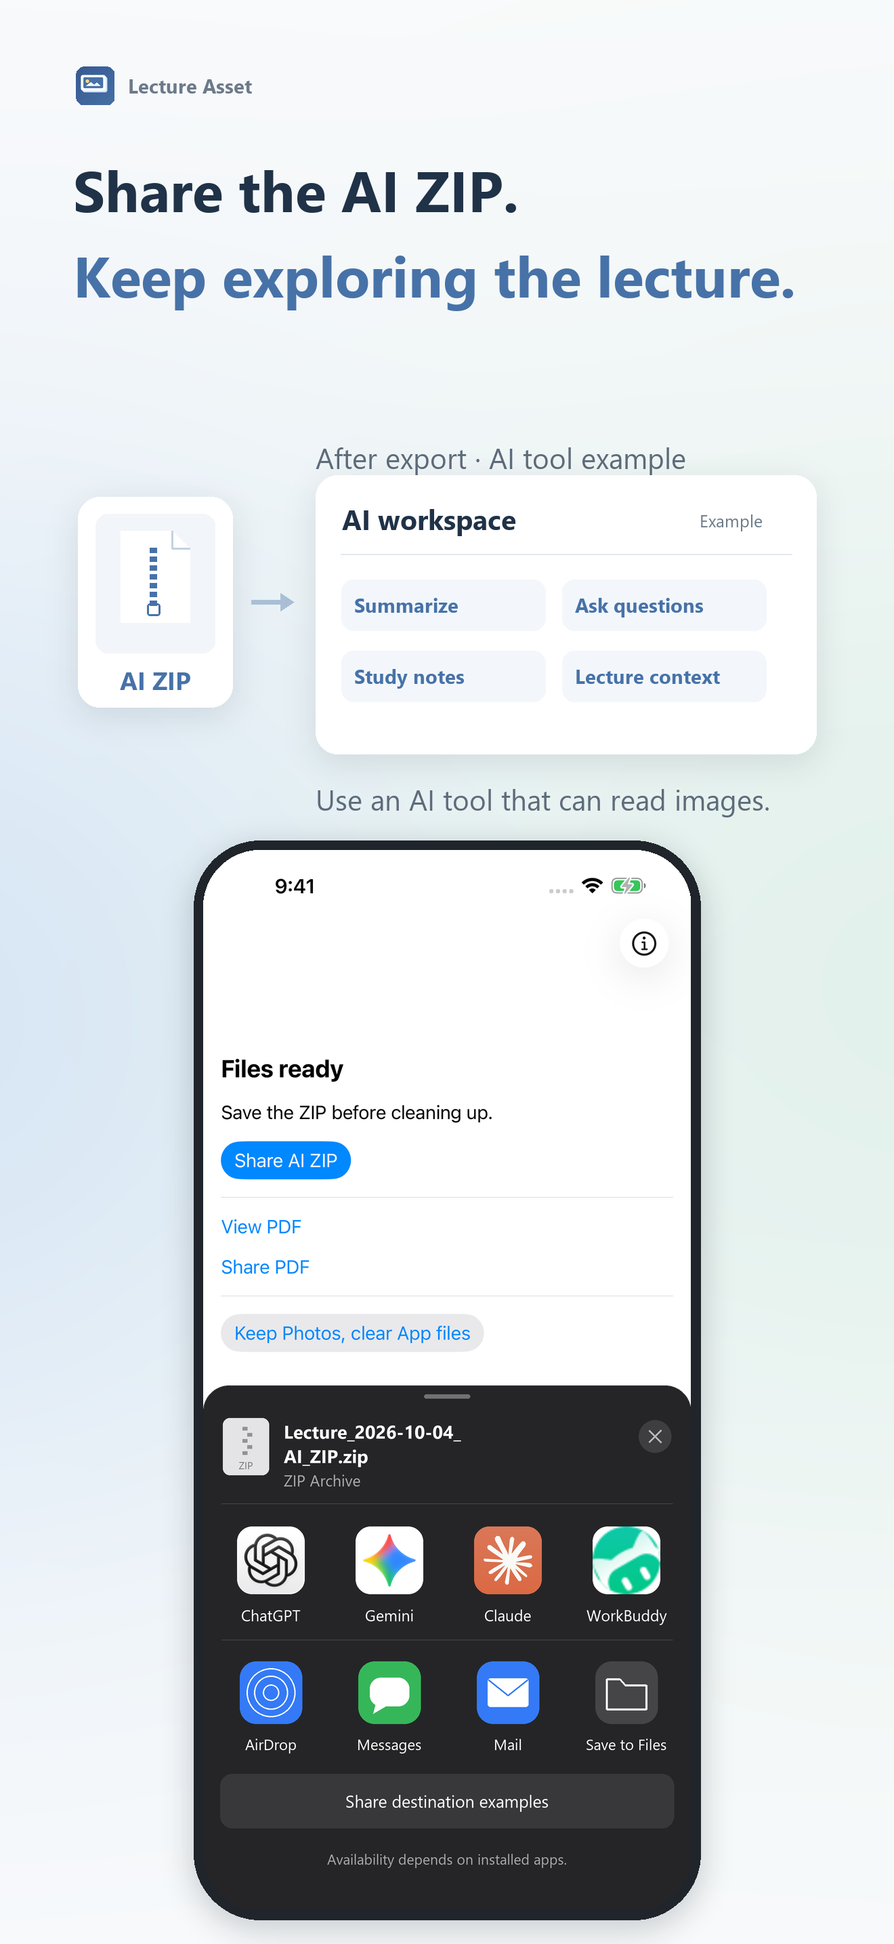
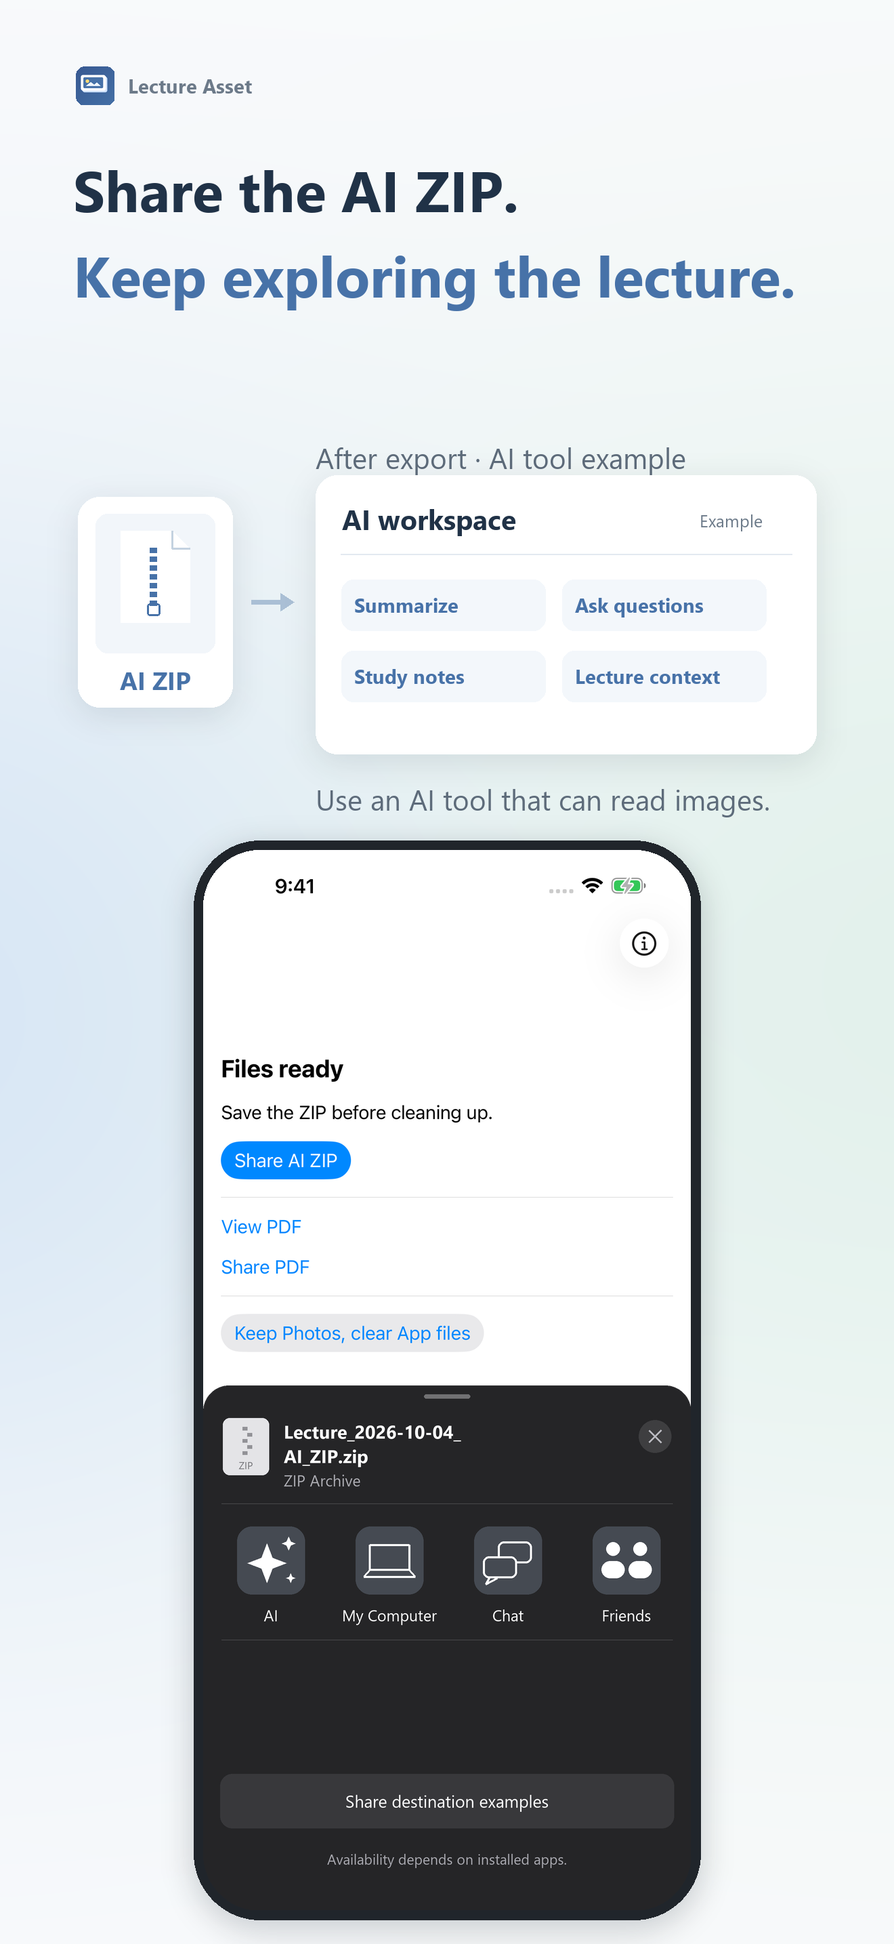
Replace share brands with generic destinations and fix plural deletion copy

diff --git a/reports/S05/store-screenshots-01/scripts/phone_overlays.py b/reports/S05/store-screenshots-01/scripts/phone_overlays.py
@@ -1,9 +1,9 @@
-"""Owner-requested illustrative system layers, not captured iOS/provider UI."""
+"""Owner-requested illustrative system layers; all destinations are generic."""
 from pathlib import Path
 from PIL import Image, ImageDraw, ImageFont
-import math
-
-NAMES = ['ChatGPT', 'Gemini', 'Claude', 'WorkBuddy']
+NAMES = ['AI', 'My Computer', 'Chat', 'Friends']
+DELETE_TITLE = 'Allow “Lecture Asset” to delete 12 photos?'
+DELETE_BODY = 'These photos will be deleted from iCloud Photos on all your devices. They’ll remain in Recently Deleted for 30 days.'
 
 def apply_overlay(base, kind, root, font_dir='C:/Windows/Fonts'):
     scale = 2
@@ -33,29 +33,37 @@ def apply_overlay(base, kind, root, font_dir='C:/Windows/Fonts'):
         line([(w-44,top+66),(w-62,top+84)],'#B8B8BE',3)
         line([(27,top+174),(w-27,top+174)])
         for i,name in enumerate(NAMES):
-            x=30+i*175
-            icon_path=root/'illustrative-assets'/f'{name.lower()}.png'
-            icon=Image.open(icon_path).convert('RGBA').resize((100*scale,100*scale),Image.Resampling.LANCZOS)
-            mask=Image.new('L',icon.size)
-            ImageDraw.Draw(mask).rounded_rectangle((0,0,199,199),44,fill=255)
-            icon.putalpha(mask)
-            layer.alpha_composite(icon,((x+20)*scale,(top+208)*scale))
+            x=30+i*175; cx=x+70; cy=top+258
+            box((cx-50,cy-50,cx+50,cy+50),22,'#454A52')
+            if i==0:
+                def sparkle(sx,sy,r):
+                    points=[(sx,sy-r),(sx+r*.28,sy-r*.28),(sx+r,sy),
+                            (sx+r*.28,sy+r*.28),(sx,sy+r),
+                            (sx-r*.28,sy+r*.28),(sx-r,sy),(sx-r*.28,sy-r*.28)]
+                    d.polygon([(round(a*scale),round(b*scale)) for a,b in points],fill='white')
+                sparkle(cx-6,cy+4,29)
+                sparkle(cx+26,cy-25,10)
+                sparkle(cx+29,cy+26,7)
+            elif i==1:
+                line([(cx-29,cy+14),(cx-29,cy-23),(cx+29,cy-23),
+                      (cx+29,cy+14),(cx-29,cy+14)],'white',3)
+                line([(cx-29,cy+14),(cx-38,cy+24),(cx+38,cy+24),
+                      (cx+29,cy+14)],'white',3)
+            elif i==2:
+                # Two offset outlined bubbles, no platform-specific mark.
+                for ox,oy in [(10,-10),(-12,12)]:
+                    bounds=(cx+ox-25,cy+oy-18,cx+ox+25,cy+oy+14)
+                    d.rounded_rectangle(tuple(round(v*scale) for v in bounds),9*scale,
+                                        fill='#454A52',outline='white',width=3*scale)
+                    line([(cx+ox-16,cy+oy+14),(cx+ox-21,cy+oy+23),
+                          (cx+ox-4,cy+oy+14)],'white',3)
+            else:
+                for ox in [-20,20]:
+                    d.ellipse(tuple(round(v*scale) for v in
+                              (cx+ox-10,cy-27,cx+ox+10,cy-7)),fill='white')
+                    box((cx+ox-17,cy+1,cx+ox+17,cy+26),13,'white')
             label(name,x+70,top+323,23,centered=True)
         line([(27,top+375),(w-27,top+375)])
-        for i,name in enumerate(['AirDrop','Messages','Mail','Save to Files']):
-            x=30+i*175; cx=x+70; cy=top+453
-            box((cx-46,cy-46,cx+46,cy+46),24,['#347AF6','#35B759','#347AF6','#454548'][i])
-            if i==0:
-                for r in [12,25,36]: d.ellipse(tuple(int(v*scale) for v in (cx-r,cy-r,cx+r,cy+r)),outline='white',width=2*scale)
-            elif i==1:
-                box((cx-29,cy-22,cx+29,cy+20),16,'white')
-                d.polygon([(int(vx*scale),int(vy*scale)) for vx,vy in [(cx-19,cy+12),(cx-24,cy+31),(cx,cy+17)]],fill='white')
-            elif i==2:
-                box((cx-30,cy-21,cx+30,cy+21),4,'white')
-                line([(cx-29,cy-19),(cx,cy+4),(cx+29,cy-19)],'#347AF6',2)
-            else:
-                line([(cx-29,cy-20),(cx-10,cy-20),(cx-2,cy-11),(cx+29,cy-11),(cx+29,cy+25),(cx-29,cy+25),(cx-29,cy-20)],'white',3)
-            label(name,cx,top+514,22,centered=True)
         box((25,top+573,w-25,top+653),18,'#38383B')
         label('Share destination examples',w/2,top+596,25,centered=True)
         label('Availability depends on installed apps.',w/2,top+684,21,'#A6A6AD',centered=True)
@@ -63,15 +71,20 @@ def apply_overlay(base, kind, root, font_dir='C:/Windows/Fonts'):
         box((0,0,w,h),0,(0,0,0,95))
         left,right,top,bottom=64,w-64,460,1125
         box((left,top,right,bottom),30,'#29292C')
-        label('Allow "Lecture Asset" to',w/2,top+32,29,bold=True,centered=True)
-        label('delete this photo?',w/2,top+72,29,bold=True,centered=True)
-        for j,t in enumerate(['This photo will be deleted from iCloud','Photos on all your devices. It will be in','Recently Deleted for 30 days.']):
+        title_lines=['Allow “Lecture Asset” to','delete 12 photos?']
+        body_lines=['These photos will be deleted from iCloud',
+                    'Photos on all your devices. They’ll remain',
+                    'in Recently Deleted for 30 days.']
+        assert ' '.join(title_lines)==DELETE_TITLE
+        assert ' '.join(body_lines)==DELETE_BODY
+        label(title_lines[0],w/2,top+32,29,bold=True,centered=True)
+        label(title_lines[1],w/2,top+72,29,bold=True,centered=True)
+        for j,t in enumerate(body_lines):
             label(t,w/2,top+129+j*33,24,'#E3E3E8',centered=True)
         preview=Image.open(root/'fixtures/lecture-13.jpg').convert('RGB')
         preview.thumbnail((462*scale,260*scale),Image.Resampling.LANCZOS)
         px=(w*scale-preview.width)//2; py=(top+259)*scale
         layer.paste(preview,(px,py))
-        label('System confirmation example',w/2,top+548,20,'#B3B3BA',centered=True)
         line([(left,top+597),(right,top+597)])
         line([(w/2,top+597),(w/2,bottom)])
         label("Don't Allow",(left+w/2)/2,top+617,27,'#71AFFF',centered=True)

diff --git a/reports/S05/store-screenshots-01/scripts/validate_store.py b/reports/S05/store-screenshots-01/scripts/validate_store.py
@@ -6,11 +6,13 @@ import json
 import numpy as np
 import subprocess
 import io
-from phone_overlays import apply_overlay, NAMES
+from phone_overlays import apply_overlay, NAMES, DELETE_TITLE, DELETE_BODY
 
 ROOT = Path(__file__).resolve().parents[1]
 BASE = '4afd804ff2bdedec0a181181d768932a01b52b1b'
-PREVIOUS = 'b260bedc40c0ddc715f53ee46b67a2112313747f'
+PREVIOUS = 'adc6c2716b7e53451c6c2f390a672f7d7ab7e622'
+assert NAMES==['AI','My Computer','Chat','Friends']
+assert not list((ROOT/'illustrative-assets').glob('*')), 'unused downloaded artwork remains'
 provenance = json.loads((ROOT/'captures/PROVENANCE.json').read_text(encoding='utf-8'))
 CAPTURE_SHA = provenance['source_sha']
 records = json.loads((ROOT/'RENDER_MANIFEST.json').read_text(encoding='utf-8'))
@@ -40,7 +42,10 @@ for record in records:
             if overlay['kind']=='share':
                 assert overlay['first_row']==NAMES
                 assert overlay['filename']=='Lecture_2026-10-04_AI_ZIP.zip'
-            else: assert overlay['preview']=='fixtures/lecture-13.jpg'
+            else:
+                assert overlay['preview']=='fixtures/lecture-13.jpg'
+                assert overlay['delete_title']==DELETE_TITLE=='Allow “Lecture Asset” to delete 12 photos?'
+                assert overlay['delete_body']==DELETE_BODY=='These photos will be deleted from iCloud Photos on all your devices. They’ll remain in Recently Deleted for 30 days.'
         # Intersect the original screen geometry with the canvas, including
         # any screen edge at the canvas boundary; current phones are fully visible.
         left,top,right,bottom=max(0,x),max(0,y),min(im.width,x+w),min(im.height,y+h)
@@ -62,12 +67,24 @@ for record in records:
         actual_changes=int(np.count_nonzero(base_delta & visible_mask))
         assert np.count_nonzero(base_delta & visible_mask & ~coverage)==0
         old_bytes=subprocess.check_output(['git','show',PREVIOUS+':'+path.relative_to(Path.cwd()).as_posix()])
-        if records.index(record) in (0,1,3):
+        if records.index(record) in (0,1,2,3):
             assert path.read_bytes()==old_bytes, 'protected frame changed'
         if records.index(record) in (2,4,5):
             old=np.asarray(Image.open(io.BytesIO(old_bytes)).convert('RGB'))
             outside=np.any(np.asarray(im)!=old,axis=2); outside[y:y+h,x:x+w]=False
             assert not np.any(outside), 'phone exterior changed'
+            if records.index(record) in (4,5):
+                # Bound the allowed changes to destination rows or dialog text.
+                local_delta=np.any(np.asarray(im)[y:y+h,x:x+w]!=old[y:y+h,x:x+w],axis=2)
+                allowed=np.zeros((h,w),dtype=bool)
+                if records.index(record)==4:
+                    allowed[990:1340,:]=True
+                else:
+                    allowed[480:690,70:650]=True
+                    allowed[995:1045,100:620]=True
+                    # The lecture preview and destructive/cancel actions stay exact.
+                    assert np.array_equal(np.asarray(im)[y+719:y+979,x+129:x+591],old[y+719:y+979,x+129:x+591])
+                assert not np.any(local_delta & ~allowed), 'change outside focused overlay areas'
         result.append({'file':record['file'],'size_mode_profile_hash':'PASS',
                        'central_phone_pixels_changed':changed,
                        'composite_expected_pixels_changed':full_changed,
@@ -103,7 +120,12 @@ assert all(r['subtitle_style']=={'size':42,'color':'#5D6B7A','origin':[113,518]}
 assert records[4]['headline_lines']==['Share the AI ZIP.','Keep exploring the lecture.']
 summary={'base_sha':BASE,'production_app_tree':app_tree,'production_changes':production_diff,
          'previous_composition_head':PREVIOUS,'exact_capture_sha':CAPTURE_SHA,
-         'new_capture_this_round':False, 'common_ready_base':'PASS', 'protected_frames_1_2_4_byte_identical':'PASS', 'phone_exteriors_3_5_6_pixel_identical':'PASS', 'runtime_workflow_tests_unchanged_this_round':'PASS',
+         'new_capture_this_round':False, 'common_ready_base':'PASS',
+         'protected_frames_1_2_3_4_byte_identical':'PASS',
+         'phone_exteriors_3_5_6_pixel_identical':'PASS',
+         'overlay_change_bounds':'PASS','lecture_preview_unchanged':'PASS',
+         'generic_destinations':NAMES,'downloaded_artwork_removed':'PASS',
+         'plural_delete_contract':'PASS','runtime_workflow_tests_unchanged_this_round':'PASS',
          'uniform_headline_style':'PASS','uniform_subtitle_style':'PASS',
          'uniform_full_phone_geometry':'PASS',
          'six_image_checks':result,'phone_repaint_check':'PASS',

diff --git a/reports/S05/store-screenshots-01/scripts/render_store.py b/reports/S05/store-screenshots-01/scripts/render_store.py
@@ -9,7 +9,7 @@ import argparse
 import hashlib
 import json
 import numpy as np
-from phone_overlays import apply_overlay, NAMES
+from phone_overlays import apply_overlay, NAMES, DELETE_TITLE, DELETE_BODY
 
 ROOT = Path(__file__).resolve().parents[1]
 P = argparse.ArgumentParser()
@@ -225,7 +225,9 @@ def render(index, item):
             'base_capture':info['raw'],'first_row':NAMES if index==5 else None,
             'filename':'Lecture_2026-10-04_AI_ZIP.zip' if index==5 else None,
             'preview':'fixtures/lecture-13.jpg' if index==6 else None,
-            'note':'Illustration only; provider share-extension availability not verified.'}
+            'delete_title':DELETE_TITLE if index==6 else None,
+            'delete_body':DELETE_BODY if index==6 else None,
+            'note':'Illustration only; generic destination categories, not installed apps.'}
     output=ROOT/'store'/'en'/(name+'.png')
     output.parent.mkdir(parents=True,exist_ok=True)
     im.convert('RGB').save(output,icc_profile=ICC,optimize=True)

diff --git a/reports/S05/store-screenshots-01/DELIVERY.md b/reports/S05/store-screenshots-01/DELIVERY.md
@@ -1,54 +1,45 @@
-# English Store images — common Files ready base + illustrative layers
+# English Store images — focused generic destinations / plural confirmation
 
-**READY_FOR_REAUDIT** — 2026-10-05. PR #14; do not merge.
+**READY_FOR_FINAL_AUDIT** — 2026-10-05. Same PR #14; no merge.
+Reviewed baseline: `adc6c2716b7e53451c6c2f390a672f7d7ab7e622`.
 
-## This revision
+## Changes
 
-Starting PR head: `79c344446c603019c4687500f475196c42d4f6ad` (full SHA recorded in TEST_RESULTS).
-Comparison baseline: `b260bedc40c0ddc715f53ee46b67a2112313747f`.
-Owner confirmed use of current **Share AI ZIP** / light real App capture.
-No button colors, localization, runtime, workflow or account configuration changed.
+Frame 5 retains its real Files ready / Share AI ZIP base and complete exterior.
+Only the illustrative destination rows change: four equal neutral rounded-square
+vector tiles, AI / My Computer / Chat / Friends, in that order. The second row
+is removed. Original sparkle / laptop / overlapping bubbles / two avatars are
+drawn by renderer; no downloaded artwork, real service names or logo assets remain.
+The ZIP header, file name, positions, sheet shell and existing low-weight example /
+installed-apps disclosure are retained. Categories are not installed applications.
 
-- Frames 3/5/6 use exactly `captures/store-en-ready.png` from Release capture source
-  `b4bff6d3ddd31a49058b1b58ea47c566cca3b1f9`. No new base capture.
-- Frame 3: plain ready screen, replacing building/progress.
-- Frame 5: dark **illustrative** iOS-style share sheet, fixed
-  `Lecture_2026-10-04_AI_ZIP.zip` / ZIP Archive. First row ChatGPT, Gemini,
-  Claude, WorkBuddy; second row AirDrop, Messages, Mail, Save to Files.
-  Real Files ready title and all existing ready actions remain visible above it.
-- Frame 6: dark **illustrative** system deletion confirmation, lecture-13 fixture
-  preview, Don't Allow / Delete. The real base is visible through a dimming layer.
-- Phone geometry, six headlines, background and all exterior artwork unchanged.
-  Frames 1/2/4 are byte-identical to baseline. Phone exteriors 3/5/6 pixel-identical.
+Frame 6 retains base, geometry, exterior cleanup diagram, lecture-13 preview and
+Don't Allow / Delete. Title: **Allow “Lecture Asset” to delete 12 photos?**
+Body: **These photos will be deleted from iCloud Photos on all your devices.
+They’ll remain in Recently Deleted for 30 days.** The in-dialog example caption
+is deleted; the separate report still identifies the dialog as illustrative.
 
-## Evidence
+No product code, button colors/implementation, localization, runtime, capture
+workflow, ASC, TestFlight, metadata or release action changed. Frames 1/2/3/4
+are protected byte-identical to reviewed head. No external artwork dependencies.
 
-Run locally (existing Python/Pillow/numpy; no install):
+## Focused evidence
 
 ```powershell
 F:/anaconda3/python.exe reports/S05/store-screenshots-01/scripts/render_store.py
 F:/anaconda3/python.exe reports/S05/store-screenshots-01/scripts/validate_store.py
 ```
 
-Focused validator PASS: PNG sizes/profile/hashes, common real base, deterministic
-system-layer composites, unchanged uncovered base pixels, protected frames/exteriors,
-uniform phone/headlines, unchanged App/runtime/tests/workflow trees.
-`IMAGE_VALIDATION.json` reports actual changed phone pixels for overlays; **does not
-claim zero changed pixels for an illustrated overlay**. Plain frames remain zero.
-Visual review: full frames 5/6 and contact sheet; labels/buttons/lecture preview
-readable, no clipping, all four AI entries visible.
+Result / tested implementation SHA: recorded in TEST_RESULTS.json after execution.
+Validation covers six 1320×2868 RGB/sRGB PNG hashes, protected frame bytes, phone
+exteriors, allowed overlay-change bounds, plural text contract, exact unchanged
+lecture preview, unchanged raw capture hashes and production/workflow trees.
+Actual overlay pixel differences are counted, not described as zero real-pixel changes.
 
-Prior Release CI retained as capture evidence, not rerun this revision:
+Review outputs: store/en/*.png and CONTACT_SHEET.png. Base capture unchanged:
+captures/store-en-ready.png from `b4bff6d3ddd31a49058b1b58ea47c566cca3b1f9`.
+Prior real Release capture CI retained, not rerun:
 https://github.com/Zhangsfish/lecture-asset/actions/runs/37221416885
 
-## Limits
-
-These overlays are marketing illustrations, not screenshots of actual system
-panels or proof of installed provider share extensions. No AI is built into App.
-ZIP acceptance/image reading depends on each external tool; NOT_VERIFIED here.
-Third-party artwork identification is recorded in illustrative-assets/SOURCES.json;
-publication/brand clearance NOT_RUN. No private device screenshot is published.
-No new Xcode/device test, ASC, TestFlight, App Review, sharing/deletion or broad QA.
-Final files: store/en/*.png; review aid: CONTACT_SHEET.png.
-
-Tested illustration implementation SHA: `ebcc2baec6a4a797073f567891dcffce45c5c189`. Both commands PASS at this SHA; subsequent commit records evidence only.
+No new Xcode/device CI, real sharing/deletion, ASC/TestFlight or broad QA: NOT_RUN.
+The system layers remain marketing illustrations rather than new system captures.

diff --git a/reports/S05/store-screenshots-01/VISUAL_SYSTEM.md b/reports/S05/store-screenshots-01/VISUAL_SYSTEM.md
@@ -2,7 +2,7 @@
 
 ## Owner reference
 
-The WorkBuddy reference was supplied as a written description in the task. No
+The initial visual reference was supplied as a written description in the task. No
 reference image was attached or visually inspected. We adopt its layout logic:
 light background, large headline, centered real phone screen, restrained floating
 objects and soft lateral blue/mint glow. No mascot, branding or platform copy.
@@ -81,7 +81,17 @@ phone_overlays.py on top of the identical unedited Files ready capture, clipped
 inside the original rounded screen mask. All exterior pixels are protected.
 Frame 5 starts at screen-local y=790; all existing ready controls above remain
 visible. Frame 6 centers a dark confirmation at y=460..1125 with a separate dim
-layer. Provider artwork is source-backed, not generated; fixture 13 is fictional.
+layer. All destination pictograms are original renderer vectors; fixture 13 is fictional.
 The validator recomputes expected composites and separately checks uncovered
 base pixels; overlay-covered pixels are allowed to differ and counted honestly.
 No new raw screenshot or color grading. Native App button colors remain unchanged.
+
+## Focused final polish
+
+Only destination-row content and delete-dialog wording change relative to adc6c27.
+Four equal 100 px neutral tiles: sparkle / laptop / two bubbles / two avatars;
+labels AI / My Computer / Chat / Friends. No second destination row. Existing
+ZIP header, sheet geometry and disclosure positions remain unchanged. Frame 6
+uses 12 photos / These photos, with the same preview and buttons. The former
+in-dialog example caption is removed. Validator bounds every changed pixel to
+these specified overlay regions and protects frames 1/2/3/4 byte-for-byte.

diff --git a/reports/S05/store-screenshots-01/AGENTS.md b/reports/S05/store-screenshots-01/AGENTS.md
@@ -16,12 +16,13 @@ Read root AGENTS, STATUS, product/spec, S05 framework, motion plan and localizat
 
 ## Current decisions / handoff
 
-READY_FOR_REAUDIT. Owner's latest request supersedes the prior prohibition on
-in-phone illustrations only for frames 5/6: explicit illustrative share sheet
-and source-delete system confirmation over the real ready base. Owner confirmed
-current Share AI ZIP/light screenshot; no production changes this round.
-Frames 1/2/4 byte-identical and 3/5/6 exteriors pixel-identical to b260bed.
-Source logos/SVG under illustrative-assets, hashes/URLs in SOURCES.json;
-phone_overlays.py contains deterministic layers. No actual provider integration,
-real sharing/deletion, fresh Xcode CI or TestFlight. Publication brand clearance
-NOT_RUN. Earlier interaction-capture proofs remain historical capture evidence.
+READY_FOR_FINAL_AUDIT. Same PR #14; never self-approve or merge.
+Current real Share AI ZIP/light base is unchanged. Frames 5/6 contain explicit
+illustrative system layers. Frame 5 has four generic vector destinations only:
+AI / My Computer / Chat / Friends. No downloaded brand artwork remains.
+Frame 6 describes deleting 12 photos, uses plural body text, preserves lecture-13
+preview and Don't Allow/Delete, and removes the in-dialog example caption.
+Baseline for this focused revision: adc6c2716b7e53451c6c2f390a672f7d7ab7e622.
+Protect frames 1/2/3/4 byte-identical, phone exteriors and all non-target overlay
+pixels. No runtime, localization, workflow, ASC, TestFlight or destructive QA.
+Historical Release capture evidence remains captures/PROVENANCE.json.

diff --git a/reports/S05/store-screenshots-01/ASSET_SOURCES.md b/reports/S05/store-screenshots-01/ASSET_SOURCES.md
@@ -39,12 +39,12 @@ Outside slide cards reuse these same fixtures. File cards/checks/arrows/AI actio
 chips are drawn by Pillow, never by generative AI. The generic AI workspace shows
 possible actions only and is labeled external/example, with no provider identity.
 
-The brand chip remains the accepted App icon. Frame 5 uses provider identification
-artwork: ChatGPT/Gemini/Claude official App Store artwork from Apple lookup URLs;
-WorkBuddy SVG from its official website favicon. Exact URLs/PNG hashes are in
-illustrative-assets/SOURCES.json. These are illustrative destination examples,
-not proof of share-extension availability or partnership. Publication/brand
-clearance is NOT_RUN; do not infer permission from asset accessibility.
+The brand chip remains the accepted App icon. Frame 5 now uses only original
+renderer-drawn generic pictograms: AI sparkle, laptop, overlapping chat bubbles
+and two avatars. All tiles share the same neutral color, size and label style.
+No downloaded third-party artwork or source entries remain in the final chain.
+The destination categories are illustrations, not actual installed applications.
+Frame 6 retains synthetic lecture-13.jpg unchanged; plural text describes 12 photos.
 
 ## Local rendering dependencies
 

diff --git a/reports/S05/store-screenshots-01/SCREENSHOT_STORYBOARD.md b/reports/S05/store-screenshots-01/SCREENSHOT_STORYBOARD.md
@@ -8,13 +8,16 @@ Headlines and outside illustrations unchanged; all phones width 748, y=1240.
 | 2 | review | None |
 | 3 | Files ready | None |
 | 4 | PDF viewer | None |
-| 5 | Files ready | Illustrative iOS-style share sheet; ChatGPT / Gemini / Claude / WorkBuddy |
+| 5 | Files ready | Illustrative iOS-style share sheet; AI / My Computer / Chat / Friends |
 | 6 | Files ready | Illustrative iOS-style delete confirmation; fictional lecture-13 preview |
 
 Owner confirmed current Share AI ZIP wording and light base. The base capture is
 unchanged, not recolored. Overlay panels are dark; frame 6 uses a separate dimming
-layer. The share sheet does not claim an actual integration or universally
+layer. The share sheet does not claim an installed applications or a universally
 available share destination. After export / AI tool example and image-reading
 qualifier remain outside the phone. Frame 6 retains the outside two cleanup
 choices and highlights a separate source-delete confirmation; no deletion executed.
 Earlier building/share/App-confirmation compositions remain in Git history.
+
+Deletion illustration: Allow “Lecture Asset” to delete 12 photos? / These photos…
+No example caption is included inside the faux dialog.
